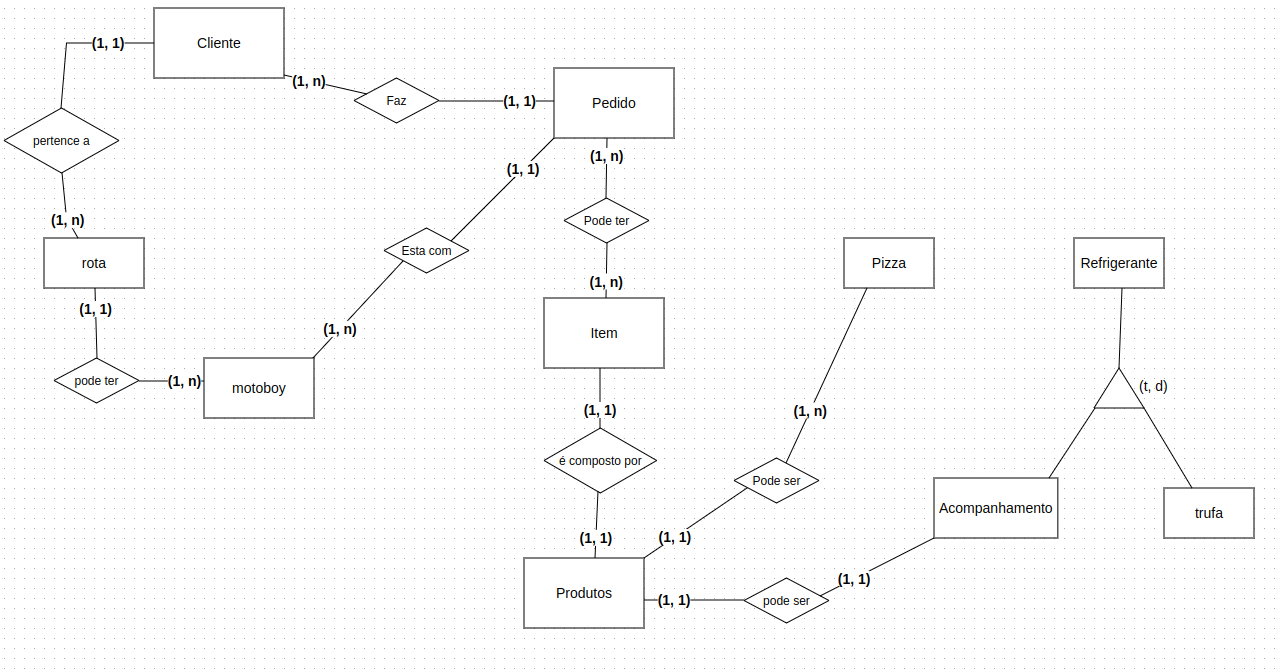
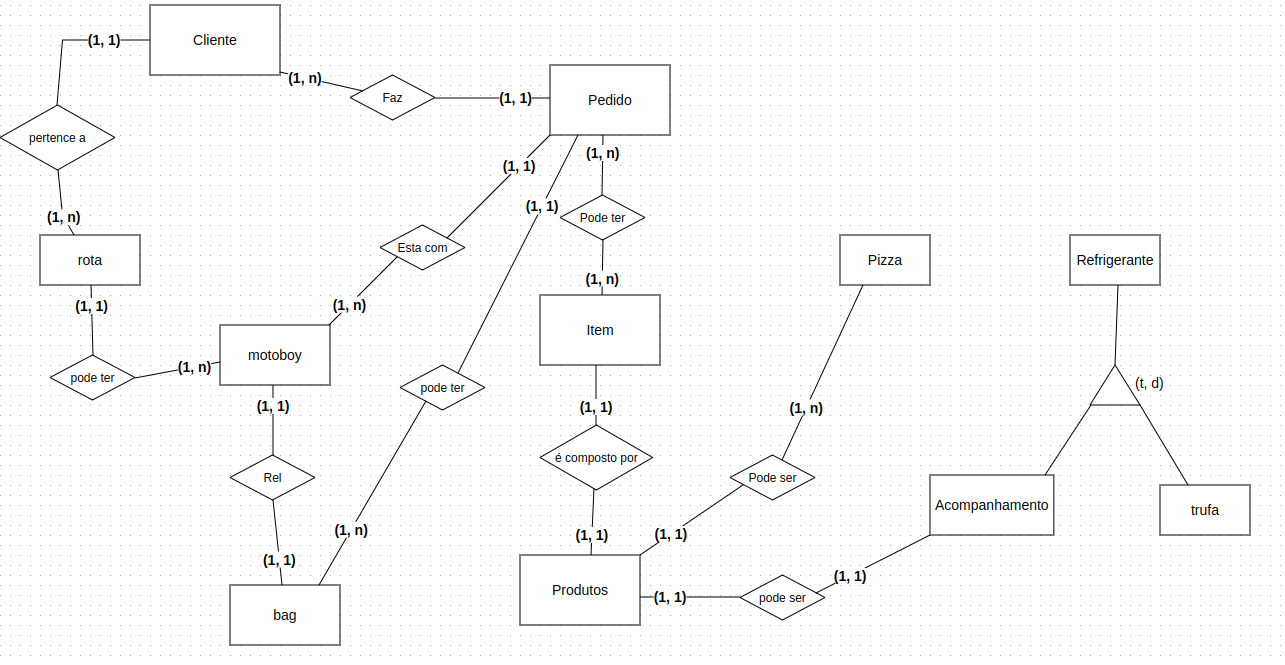
modelagem de dados

diff --git a/README.md b/README.md
@@ -1,8 +1,12 @@
 <h1>Gerenciador de Pedidos para uma pizzaria</h1>
-
+<h3>
+<p>Eu mesmo levantei os requitos, as regras de negócio e a modelagem dos dados, com o levantamento das funcionalidades que fiz
+é possivel ver esse arquivo (nada bonito) em: "ComoDeveFuncionar.txt"
+</p>
+</h3>
 <h2>Requisitos funcionais:</h2>
 <ul>
-    <li>Cadstrar usuario admin</li>
+    <li>Cadastrar usuario admin</li>
     <li>Cadastrar produtos no sistema (pizzas e acompanhamento)</li>
     <li>Criar um pedido</li>
     <li>Cancelar a criação de um pedido (caso cliente desista da compra durante o cadastro do pedido)</li>
@@ -26,12 +30,14 @@
 
 <h2>Regras de negócio</h2>
 <ul>
+    <li>produtos cadastrados devem possuir, valor, nome, tipo.</li>
+    <li>acompanhamentos podem ser n coisas</li>
     <li>Todo pedido produto cadastrado no sistema deve ter um identificador unico</li>
     <li>Criar regra de limite de sabores para uma unica pizza</li>
     <li>todo pedido, deve ter:
         <ol>
             <li>nome do cliente</li>
-            <li>Idetificador do pedido</li>
+            <li>idetificador do pedido</li>
             <li>produtos pedidos</li>
             <li>valor total</li>
             <li>Tempo de espera</li>
@@ -97,6 +103,7 @@
         calcular rota
         <ol>
             <li>opções de checkbox devem ser mostrada com os nomes do motoboys</li>
+            <li>Motoqueiros em rota nao podera ser adicionado pedidos</li>
             <li>Sera realizado uma busca por pedidos o a flag "PRONTO"</li>
             <li>para cada busca confirma se a bag do motoboy cabe o pedido.</li>
             <li>sempre que o pedido nao couber em um motoqueiro, informar ao usuario, onde sera exibido duas opções: "adicionar mesmo assim" e "ir para a proxima"
@@ -116,11 +123,32 @@
             <li>se calcular rota -> pega todos os pedidos adicionados a bag do motoqueiro, e pelo endereço ou tempo de espera calcular qual deve ser entregue
             primeiro, retorna um lista com os pedidos em ordem de entrega, com os identificadores.
             </li>
+            <li>todos os pedidos que foram adicionados a bag de um motoqueiro devem ter a flag para "Em rota"</li>
         </ol>
     </li>
     <li>se confirmação do pagamento em pix, for feita após a impressão da comanda, sera necessario informar adicionar manualmente esse informação a comanda</li>
     <li>Pedidos prontons, recebm a flag pronto</li>
     <li>todo motoboy, possui uma bag</li>
+</ul>
+
+<h2>Modelagem de dados</h2>
+<ul>
+    <li><h4>Entidades</h4></li>
+    <li>Cliente</li>
+    <li>Motoboy</li>
+    <li>Rota</li>
+    <li>Bag</li>
+    <li>Item</li>
+    <li>Produtos</li>
+    <li>Pizza</li>
+    <li>Refrigerante</li>
+    <li>Trufa</li>
+    <li>
+        <h4>Modelo Conceitual e Relacionamentos</h4>
+    </li>
+    <li>
+        <img src="DER/Conceitual.png" />
+    </li>
 </ul>
 
 voce pode ver mais em:
